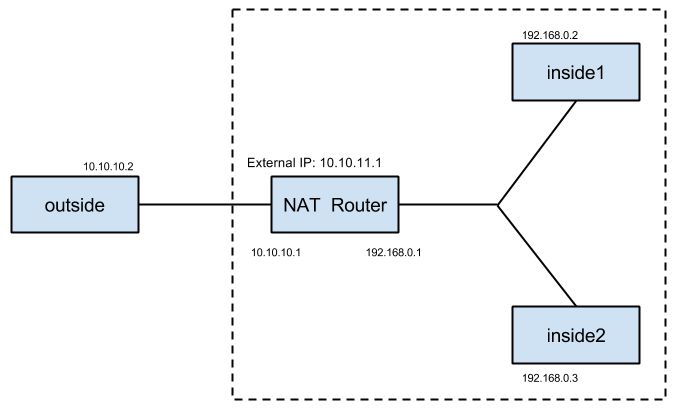
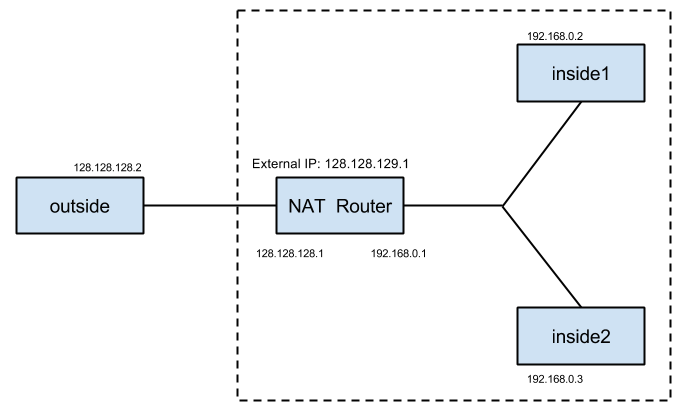
change out side ip from 10.x to 128.x

diff --git a/nat.rb b/nat.rb
@@ -8,7 +8,7 @@ class MyController < Controller
 	def start
 		@maps = Hash.new
 		@ports = *(50000..60000)
-		@ex_ip = "10.10.11.1"
+		@ex_ip = "128.128.129.1"
 	end
 
 	###################
